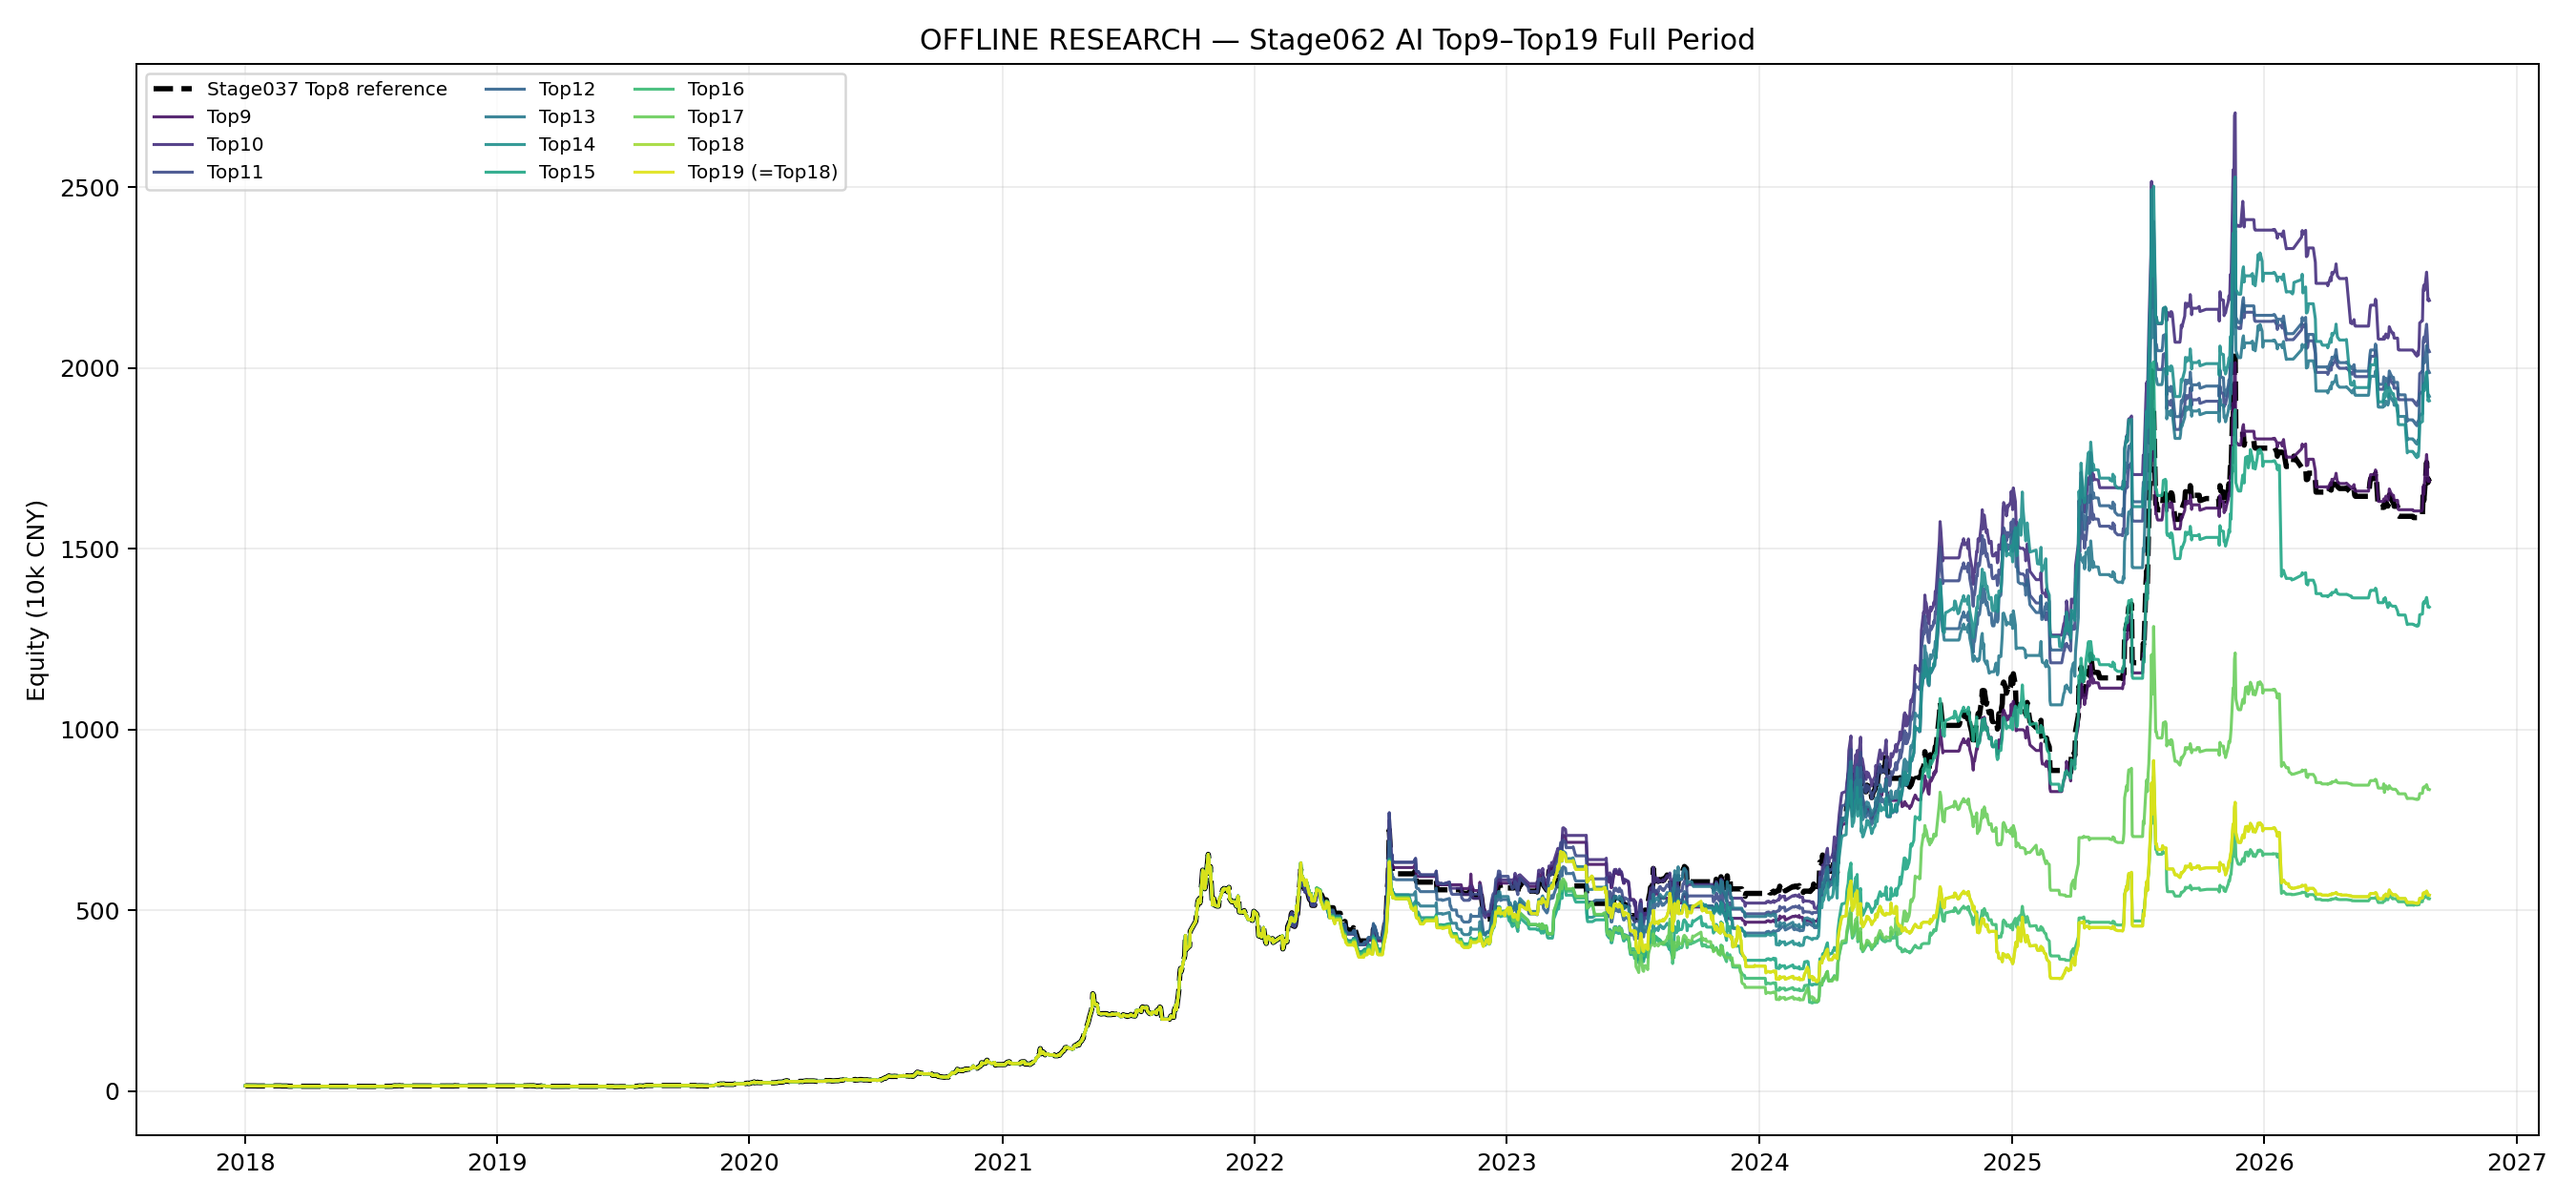
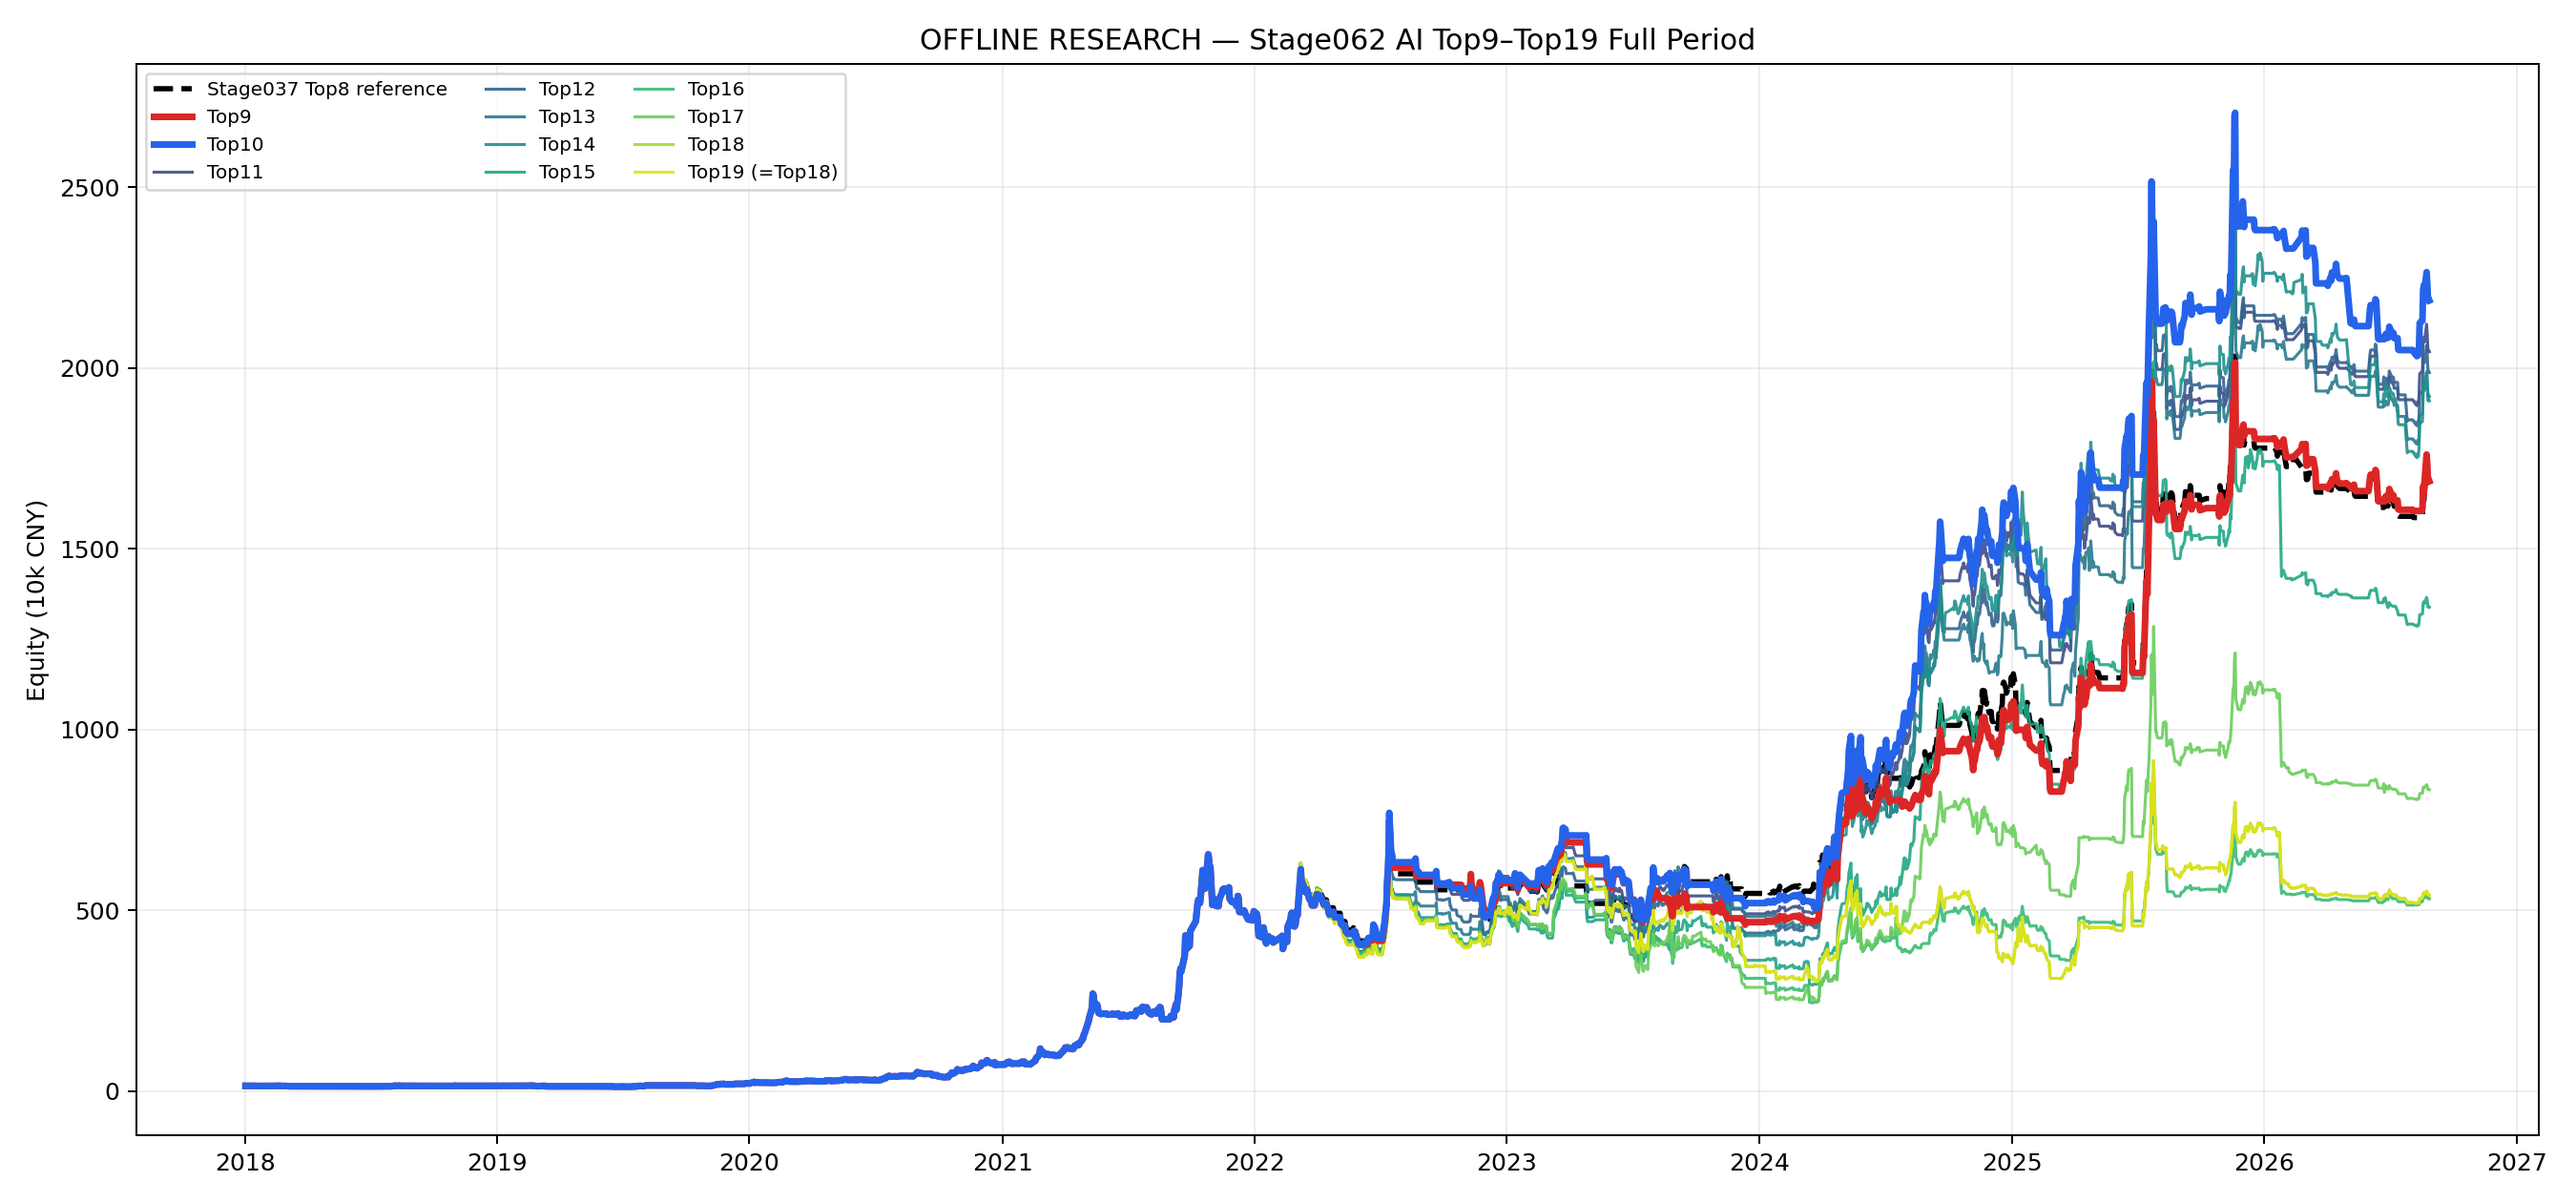
research: distinguish Stage062 Top9 and Top10 colors

diff --git a/tests/test_stage062_ai_top9_fullperiod.py b/tests/test_stage062_ai_top9_fullperiod.py
@@ -8,6 +8,7 @@ import sys
 
 import pandas as pd
 import pytest
+from matplotlib.colors import to_rgb
 
 
 ROOT = Path(__file__).resolve().parents[1]
@@ -152,6 +153,29 @@ def test_stage062_reuses_stage061_reference_and_top10_to_top19_exactly() -> None
     assert set(trades) == set(range(10, 20))
     assert len(curves["REF"]) == 2101
     assert all(len(curves[top_n]) == 2101 for top_n in range(10, 20))
+
+
+def test_stage062_top9_and_top10_equity_lines_are_visually_distinct() -> None:
+    runner = _runner()
+
+    assert hasattr(runner, "_equity_line_style")
+    top9 = runner._equity_line_style(9, "#123456")
+    top10 = runner._equity_line_style(10, "#123456")
+    top11 = runner._equity_line_style(11, "#abcdef")
+
+    rgb9 = to_rgb(top9["color"])
+    rgb10 = to_rgb(top10["color"])
+    rgb_distance = sum((left - right) ** 2 for left, right in zip(rgb9, rgb10)) ** 0.5
+    assert rgb_distance > 0.75
+    assert top9["linewidth"] >= 2.5
+    assert top10["linewidth"] >= 2.5
+    assert top11 == {
+        "color": "#abcdef",
+        "linewidth": 1.25,
+        "linestyle": "-",
+        "alpha": 0.9,
+        "zorder": 2,
+    }
 
 
 def test_stage062_published_artifacts_include_top9_and_preserve_stage061() -> None:

diff --git a/research/lines/futures_trend_rollover_shape_same_volume/tools/stage062_ai_top9_fullperiod.py b/research/lines/futures_trend_rollover_shape_same_volume/tools/stage062_ai_top9_fullperiod.py
@@ -577,6 +577,21 @@ def _comparison(summary: pd.DataFrame) -> pd.DataFrame:
     return pd.DataFrame(rows)
 
 
+def _equity_line_style(top_n: int, default_color: Any) -> dict[str, Any]:
+    base = {
+        "color": default_color,
+        "linewidth": 1.25,
+        "linestyle": "-",
+        "alpha": 0.9,
+        "zorder": 2,
+    }
+    highlights = {
+        9: {"color": "#dc2626", "linewidth": 2.8, "alpha": 1.0, "zorder": 5},
+        10: {"color": "#2563eb", "linewidth": 2.8, "alpha": 1.0, "zorder": 5},
+    }
+    return {**base, **highlights.get(top_n, {})}
+
+
 def _plot_equity(curve: pd.DataFrame) -> bytes:
     fig, ax = plt.subplots(figsize=(15, 7))
     reference = curve[curve["experiment_arm"].astype(str).eq("REF")].sort_values("date")
@@ -595,10 +610,8 @@ def _plot_equity(curve: pd.DataFrame) -> bytes:
         ax.plot(
             pd.to_datetime(frame["date"]),
             pd.to_numeric(frame["account_equity"]) / 10_000,
-            color=color,
-            linewidth=1.25,
-            alpha=0.9,
             label=label,
+            **_equity_line_style(top_n, color),
         )
     ax.set_title(PLOT_TITLE)
     ax.set_ylabel("Equity (10k CNY)")
